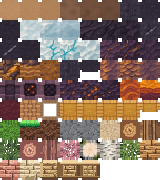
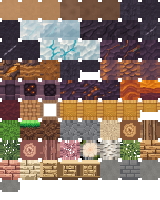
Orvalis em voxel: pedra de obra, lisa, tijolo e laje (v0.175.0, E2a, ADR 0108)
Terceira entrega do pacote Texturas16px: Pedra Lisa, Tijolo de Pedra e Laje de
Pedra (blocos 107-110, itens 57-59). A laje entra na família das lajes e duas
viram a Pedra Lisa; três receitas na mesa; ícones isométricos (laje em meia
altura); vitrine com três fileiras. Degrau e mureta ficam em E2b e E2c.

Claude-Session: https://claude.ai/code/session_01KGdgoniDf5SwPMM31qtkm2

diff --git a/src/titan/voxel.ts b/src/titan/voxel.ts
@@ -22,9 +22,9 @@ export const REGION_MIN = REGION_LEGACY.min;
 export const REGION_MAX = REGION_LEGACY.max;
 
 /** Ids de bloco (um byte; 0 = ar). */
-export const T = { AIR: 0, SAND: 1, DAMP_SAND: 2, DARK_ROCK: 3, FROST: 4, LAKE: 5, BEDROCK: 6, LANTERN: 7, VEIN_ROCK: 8, VEIN_FROST: 9, WORKBENCH: 10, EMBER: 11, SLAB: 12, WORKBENCH_90: 13, WORKBENCH_180: 14, WORKBENCH_270: 15, SLAB_TOP: 16, SLAB_DOUBLE: 17, MARCO: 18, MARCO_90: 19, MARCO_180: 20, MARCO_270: 21, PAINEL: 22, PAINEL_Z: 23, VEIN_COPPER: 24, BRAZIER: 25, BRAZIER_LIT: 26, CARAPACE: 27, EMBER_VEIN: 28, EMBER_BLOCK: 29, MAT: 30, LADDER: 31, LADDER_90: 32, LADDER_180: 33, LADDER_270: 34, CHEST: 35, CHEST_90: 36, CHEST_180: 37, CHEST_270: 38, BED: 39, BED_90: 40, BED_180: 41, BED_270: 42, BED_HEAD: 43, BED_HEAD_90: 44, BED_HEAD_180: 45, BED_HEAD_270: 46, REED_BLOCK: 47, REED_SLAB: 48, REED_SLAB_TOP: 49, REED_STAIR: 50, REED_STAIR_90: 51, REED_STAIR_180: 52, REED_STAIR_270: 53, REED_CHAIR: 54, REED_CHAIR_90: 55, REED_CHAIR_180: 56, REED_CHAIR_270: 57, DOOR: 58, DOOR_LAST: 89, GRASS: 90, DIRT: 91, STONE: 92, BEACH: 93, LOG_OAK: 94, LEAVES_OAK: 95, LOG_CHERRY: 96, LEAVES_CHERRY: 97, LOG_BIRCH: 98, LEAVES_BIRCH: 99, PLANKS_OAK: 100, PLANKS_CHERRY: 101, PLANKS_BIRCH: 102, CARPENTRY: 103, CARPENTRY_90: 104, CARPENTRY_180: 105, CARPENTRY_270: 106 } as const;
+export const T = { AIR: 0, SAND: 1, DAMP_SAND: 2, DARK_ROCK: 3, FROST: 4, LAKE: 5, BEDROCK: 6, LANTERN: 7, VEIN_ROCK: 8, VEIN_FROST: 9, WORKBENCH: 10, EMBER: 11, SLAB: 12, WORKBENCH_90: 13, WORKBENCH_180: 14, WORKBENCH_270: 15, SLAB_TOP: 16, SLAB_DOUBLE: 17, MARCO: 18, MARCO_90: 19, MARCO_180: 20, MARCO_270: 21, PAINEL: 22, PAINEL_Z: 23, VEIN_COPPER: 24, BRAZIER: 25, BRAZIER_LIT: 26, CARAPACE: 27, EMBER_VEIN: 28, EMBER_BLOCK: 29, MAT: 30, LADDER: 31, LADDER_90: 32, LADDER_180: 33, LADDER_270: 34, CHEST: 35, CHEST_90: 36, CHEST_180: 37, CHEST_270: 38, BED: 39, BED_90: 40, BED_180: 41, BED_270: 42, BED_HEAD: 43, BED_HEAD_90: 44, BED_HEAD_180: 45, BED_HEAD_270: 46, REED_BLOCK: 47, REED_SLAB: 48, REED_SLAB_TOP: 49, REED_STAIR: 50, REED_STAIR_90: 51, REED_STAIR_180: 52, REED_STAIR_270: 53, REED_CHAIR: 54, REED_CHAIR_90: 55, REED_CHAIR_180: 56, REED_CHAIR_270: 57, DOOR: 58, DOOR_LAST: 89, GRASS: 90, DIRT: 91, STONE: 92, BEACH: 93, LOG_OAK: 94, LEAVES_OAK: 95, LOG_CHERRY: 96, LEAVES_CHERRY: 97, LOG_BIRCH: 98, LEAVES_BIRCH: 99, PLANKS_OAK: 100, PLANKS_CHERRY: 101, PLANKS_BIRCH: 102, CARPENTRY: 103, CARPENTRY_90: 104, CARPENTRY_180: 105, CARPENTRY_270: 106, STONE_SMOOTH: 107, STONE_BRICK: 108, STONE_SLAB: 109, STONE_SLAB_TOP: 110 } as const;
 /** Maior id de bloco (o carregamento do save descarta ids acima disto). */
-export const T_MAX = T.CARPENTRY_270;
+export const T_MAX = T.STONE_SLAB_TOP;
 export type TitanBlock = (typeof T)[keyof typeof T];
 
 export const BLOCK_NAMES: Record<number, string> = { 1: 'Areia ocre', 2: 'Areia úmida', 3: 'Rocha escura', 4: 'Gelo fosco', 5: 'Lago escuro', 6: 'Rocha-mãe', 7: 'Lanterna da margem', 8: 'Rocha com veio', 9: 'Gelo com veio', 10: 'Mesa de Trabalho', 11: 'Brasa de âmbar', 12: 'Laje de rocha', 13: 'Mesa de Trabalho', 14: 'Mesa de Trabalho', 15: 'Mesa de Trabalho', 16: 'Laje de rocha', 17: 'Laje dupla de rocha', 18: 'Marco de Margem', 19: 'Marco de Margem', 20: 'Marco de Margem', 21: 'Marco de Margem', 22: 'Painel de Junco', 23: 'Painel de Junco', 24: 'Veio de Cobre de Duna', 25: 'Braseiro de Rocha', 26: 'Braseiro de Rocha (aceso)', 27: 'Revestimento de Carapaça', 28: 'Veio de Âmbar', 29: 'Bloco de Âmbar Compactado', 30: 'Esteira de Junco', 31: 'Escada de Junco', 32: 'Escada de Junco', 33: 'Escada de Junco', 34: 'Escada de Junco', 35: 'Baú de Rocha e Junco', 36: 'Baú de Rocha e Junco', 37: 'Baú de Rocha e Junco', 38: 'Baú de Rocha e Junco', 39: 'Cama de Junco', 40: 'Cama de Junco', 41: 'Cama de Junco', 42: 'Cama de Junco', 43: 'Cama de Junco', 44: 'Cama de Junco', 45: 'Cama de Junco', 46: 'Cama de Junco', 47: 'Bloco de Junco', 48: 'Laje de Junco', 49: 'Laje de Junco', 50: 'Degrau de Junco', 51: 'Degrau de Junco', 52: 'Degrau de Junco', 53: 'Degrau de Junco', 54: 'Cadeira de Junco', 55: 'Cadeira de Junco', 56: 'Cadeira de Junco', 57: 'Cadeira de Junco' };
@@ -41,6 +41,8 @@ export const carpentryId = (turn: number): number => T.CARPENTRY + (((turn % 4) 
 export const carpentryTurnFacing = (yaw: number): number => ((Math.round(yaw / (Math.PI / 2)) % 4) + 4) % 4;
 /** Qualquer mesa de fabricação em 3 × 3: a Mesa de Trabalho do Titã (modelo 3D) ou a Mesa de Carpintaria do Orvalis (cubo). Pergunte aqui, nunca `isWorkbench` sozinho, ao decidir se há bancada. */
 export const isCraftingTable = (id: number): boolean => isWorkbench(id) || isCarpentry(id);
+/** Pedra de obra do Orvalis em voxel (ADR 0108): Pedra Lisa, Tijolo de Pedra e a Laje de Pedra (inferior e superior; duas lajes na mesma célula viram a Pedra Lisa). */
+Object.assign(BLOCK_NAMES, { 107: 'Pedra Lisa', 108: 'Tijolo de Pedra', 109: 'Laje de Pedra', 110: 'Laje de Pedra' });
 /** Folhas das árvores do Orvalis (cubo inteiro opaco por enquanto) e toras. */
 export const isLeaves = (id: number): boolean => id === T.LEAVES_OAK || id === T.LEAVES_CHERRY || id === T.LEAVES_BIRCH;
 export const isLog = (id: number): boolean => id === T.LOG_OAK || id === T.LOG_CHERRY || id === T.LOG_BIRCH;
@@ -56,10 +58,10 @@ export const isOccupied = isTarget;
 /** Altura do bloco dentro da célula (0–1): 1 = cubo inteiro, 0,5 = laje (ADR 0046), 0 = não sólido. A física e a mira usam esta altura. */
 export const blockHeight = (id: number): number => blockSpan(id)[1];
 /** Laje (ADR 0046, 0056): inferior (`SLAB`, metade de baixo da célula) ou superior (`SLAB_TOP`, metade de cima); as duas juntas viram `SLAB_DOUBLE` (cubo inteiro). */
-export const isSlab = (id: number): boolean => id === T.SLAB || id === T.SLAB_TOP || id === T.REED_SLAB || id === T.REED_SLAB_TOP; // a de rocha e a de junco (ADR 0100)
+export const isSlab = (id: number): boolean => id === T.SLAB || id === T.SLAB_TOP || id === T.REED_SLAB || id === T.REED_SLAB_TOP || id === T.STONE_SLAB || id === T.STONE_SLAB_TOP; // a de rocha, a de junco (ADR 0100) e a de pedra (ADR 0108)
 /** Laje inferior (metade de baixo da célula)? A superior é o par dela: `slabPartner`. */
-export const isSlabBottom = (id: number): boolean => id === T.SLAB || id === T.REED_SLAB;
-export const slabPartner = (id: number): number => (id === T.SLAB ? T.SLAB_TOP : id === T.SLAB_TOP ? T.SLAB : id === T.REED_SLAB ? T.REED_SLAB_TOP : T.REED_SLAB);
+export const isSlabBottom = (id: number): boolean => id === T.SLAB || id === T.REED_SLAB || id === T.STONE_SLAB;
+export const slabPartner = (id: number): number => (id === T.SLAB ? T.SLAB_TOP : id === T.SLAB_TOP ? T.SLAB : id === T.REED_SLAB ? T.REED_SLAB_TOP : id === T.REED_SLAB_TOP ? T.REED_SLAB : id === T.STONE_SLAB ? T.STONE_SLAB_TOP : T.STONE_SLAB);
 /** Faixa de altura que o bloco ocupa dentro da célula, `[baixo, topo]` em 0–1 (a laje superior ocupa [0,5, 1]; não sólido = [0, 0]). A física e a mira leem esta faixa. */
 export function blockSpan(id: number): readonly [number, number] {
   if (isStair(id) || isChair(id) || isDoor(id)) return [0, 1]; // a caixa envolvente (a forma exata vem de `blockBoxes`)
@@ -273,6 +275,10 @@ BLOCK_TILES[T.LEAVES_BIRCH] = ot('folhas-betula');
 BLOCK_TILES[T.PLANKS_OAK] = ot('tabua-carvalho');
 BLOCK_TILES[T.PLANKS_CHERRY] = ot('tabua-cerejeira');
 BLOCK_TILES[T.PLANKS_BIRCH] = ot('tabua-betula');
+BLOCK_TILES[T.STONE_SMOOTH] = ot('pedra-lisa');
+BLOCK_TILES[T.STONE_BRICK] = ot('tijolo-pedra');
+BLOCK_TILES[T.STONE_SLAB] = ot('laje-topo', 'laje-face', 'laje-topo'); // a lateral tem 16 × 8 e usa a metade de cima do tile
+BLOCK_TILES[T.STONE_SLAB_TOP] = BLOCK_TILES[T.STONE_SLAB];
 for (let t = 0; t < 4; t++) BLOCK_TILES[T.CARPENTRY + t] = [tileIndex('orvalis/mesa-topo'), tileIndex('orvalis/mesa-lateral'), tileIndex('orvalis/tabua-carvalho')]; // a base é de tábuas; a frente tem tile próprio (`tileForFace`)
 // Família do Junco (ADR 0100): o bloco usa a trama nas seis faces; a laje, o topo de 32 × 32 e a lateral de 32 × 16 (metade de cima do tile)
 BLOCK_TILES[T.REED_BLOCK] = faces3('21-bloco-de-junco');

diff --git a/src/titan/orvalis/pedraObra.test.ts b/src/titan/orvalis/pedraObra.test.ts
@@ -1,0 +1,77 @@
+import { describe, expect, it } from 'vitest';
+import { breakOrCollect, placeFromSlot } from '../actions';
+import { breakTotalMs } from '../breaking';
+import { sweep } from '../dropTestUtil';
+import { BAG, HOTBAR } from '../inventory';
+import { blockOfItem, isItem, Item, ITEM_NAMES, itemOfBlock } from '../items';
+import { craft, recipeById } from '../recipes';
+import { MemoryTitanStorage } from '../save';
+import { openSession } from '../session';
+import { resolveSlabPlacement } from '../slabs';
+import { surfaceOf } from '../sounds';
+import { blockSpan, isFull, isSlab, isSlabBottom, isSolid, slabPartner, T, tileFor } from '../voxel';
+import { ORVALIS_GENERATOR_VERSION, OrvalisGenerator, orvalisGeneratorFor } from './generator';
+
+/** Pedra de obra do Orvalis em voxel (ADR 0108): Pedra Lisa, Tijolo de Pedra e Laje de Pedra (que funde na Pedra Lisa). */
+const open = () => openSession(new MemoryTitanStorage(), 42, () => 1, orvalisGeneratorFor, ORVALIS_GENERATOR_VERSION, (s, v) => new OrvalisGenerator(s, v));
+const slotOf = (s: Awaited<ReturnType<typeof open>>, item: number): number => [...Array(HOTBAR + BAG).keys()].find((i) => s.inventory.get(i)?.item === item) ?? -1;
+
+describe('pedra de obra (ADR 0108)', () => {
+  it('receitas: 1 Pedra → 1 Pedra Lisa, 4 Pedra → 4 Tijolos, 3 Pedra Lisa → 6 Lajes; todas pedem a mesa', async () => {
+    const s = await open();
+    s.inventory.add(Item.STONE, 6);
+    expect(craft(s.inventory, recipeById('pedra-lisa')!, null)).toEqual({ ok: false, reason: 'station' }); // na mão não
+    expect(craft(s.inventory, recipeById('pedra-lisa')!, 'workbench').ok).toBe(true);
+    expect(s.inventory.total(Item.STONE)).toBe(5); expect(s.inventory.total(Item.PEDRA_LISA)).toBe(1);
+    expect(craft(s.inventory, recipeById('tijolo-pedra')!, 'workbench').ok).toBe(true);
+    expect(s.inventory.total(Item.TIJOLO_PEDRA)).toBe(4); expect(s.inventory.total(Item.STONE)).toBe(1);
+    s.inventory.add(Item.PEDRA_LISA, 2);
+    expect(craft(s.inventory, recipeById('laje-pedra')!, 'workbench').ok).toBe(true);
+    expect(s.inventory.total(Item.LAJE_PEDRA)).toBe(6); expect(s.inventory.total(Item.PEDRA_LISA)).toBe(0);
+    for (const id of ['pedra-lisa', 'tijolo-pedra', 'laje-pedra']) expect(recipeById(id)!.world).toBe('orvalis');
+  });
+
+  it('itens ↔ blocos: lisa e tijolo são cubos; a laje (inferior e superior) é meia altura e devolve a mesma laje', () => {
+    expect(blockOfItem(Item.PEDRA_LISA)).toBe(T.STONE_SMOOTH); expect(itemOfBlock(T.STONE_SMOOTH)).toBe(Item.PEDRA_LISA);
+    expect(blockOfItem(Item.TIJOLO_PEDRA)).toBe(T.STONE_BRICK); expect(itemOfBlock(T.STONE_BRICK)).toBe(Item.TIJOLO_PEDRA);
+    expect(blockOfItem(Item.LAJE_PEDRA)).toBe(T.STONE_SLAB); expect(itemOfBlock(T.STONE_SLAB)).toBe(Item.LAJE_PEDRA); expect(itemOfBlock(T.STONE_SLAB_TOP)).toBe(Item.LAJE_PEDRA);
+    for (const [i, n] of [[Item.PEDRA_LISA, 'Pedra Lisa'], [Item.TIJOLO_PEDRA, 'Tijolo de Pedra'], [Item.LAJE_PEDRA, 'Laje de Pedra']] as const) { expect(isItem(i)).toBe(true); expect(ITEM_NAMES[i]).toBe(n); }
+    expect(isItem(60)).toBe(false);
+    expect(isFull(T.STONE_SMOOTH) && isFull(T.STONE_BRICK)).toBe(true);
+    expect(isSlab(T.STONE_SLAB) && isSlab(T.STONE_SLAB_TOP) && !isFull(T.STONE_SLAB)).toBe(true);
+    expect(blockSpan(T.STONE_SLAB)).toEqual([0, 0.5]); expect(blockSpan(T.STONE_SLAB_TOP)).toEqual([0.5, 1]);
+    expect(isSlabBottom(T.STONE_SLAB)).toBe(true); expect(slabPartner(T.STONE_SLAB)).toBe(T.STONE_SLAB_TOP); expect(slabPartner(T.STONE_SLAB_TOP)).toBe(T.STONE_SLAB);
+    expect(slabPartner(T.REED_SLAB_TOP)).toBe(T.REED_SLAB); // as outras famílias seguem iguais
+    expect(isSolid(T.STONE_SLAB)).toBe(true);
+  });
+
+  it('a laje de pedra só funde com a laje de pedra: duas viram a Pedra Lisa; com a de rocha ou de junco não', () => {
+    expect(resolveSlabPlacement(T.STONE_SLAB, 1, undefined, T.STONE_SLAB)).toEqual({ merge: true, block: T.STONE_SMOOTH });
+    expect(resolveSlabPlacement(T.STONE_SLAB_TOP, -1, undefined, T.STONE_SLAB)).toEqual({ merge: true, block: T.STONE_SMOOTH });
+    expect(resolveSlabPlacement(T.SLAB, 1, undefined, T.STONE_SLAB).merge).toBe(false); // laje de rocha embaixo
+    expect(resolveSlabPlacement(T.REED_SLAB, 1, undefined, T.STONE_SLAB).merge).toBe(false);
+    expect(resolveSlabPlacement(T.STONE_SLAB, 1, undefined, T.SLAB).merge).toBe(false); // e o inverso
+    expect(resolveSlabPlacement(T.STONE, -1, undefined, T.STONE_SLAB)).toEqual({ merge: false, block: T.STONE_SLAB_TOP }); // face de baixo de um bloco: superior
+  });
+
+  it('no jogo: a laje vai ao chão em meia altura, a segunda por cima funde na Pedra Lisa (gastando 1), e quebrar devolve a laje ou a lisa', async () => {
+    const s = await open(), a = s.volume.gen.arrival, cx = Math.floor(a.x) + 2, cz = Math.floor(a.z);
+    s.inventory.add(Item.LAJE_PEDRA, 3);
+    expect(placeFromSlot(s, { x: cx, y: a.y - 1, z: cz, nx: 0, ny: 1, nz: 0 }, slotOf(s, Item.LAJE_PEDRA)).ok).toBe(true);
+    expect(s.volume.get(cx, a.y, cz)).toBe(T.STONE_SLAB);
+    expect(placeFromSlot(s, { x: cx, y: a.y, z: cz, nx: 0, ny: 1, nz: 0, hy: 0.5 }, slotOf(s, Item.LAJE_PEDRA)).ok).toBe(true); // no topo da laje inferior: funde
+    expect(s.volume.get(cx, a.y, cz)).toBe(T.STONE_SMOOTH); expect(s.inventory.total(Item.LAJE_PEDRA)).toBe(1);
+    expect(breakOrCollect(s, { x: cx, y: a.y, z: cz, nx: 0, ny: 1, nz: 0 }).ok).toBe(true);
+    sweep(s); expect(s.inventory.total(Item.PEDRA_LISA)).toBe(1); // a Pedra Lisa devolve 1 bloco
+  });
+
+  it('tempos, som e arte: cubos 1,6 s, laje 1 s; tile próprio de cada um; a lateral da laje é a de meia altura', () => {
+    for (const b of [T.STONE_SMOOTH, T.STONE_BRICK]) expect(breakTotalMs('block', b)).toBe(1600);
+    for (const b of [T.STONE_SLAB, T.STONE_SLAB_TOP]) expect(breakTotalMs('block', b)).toBe(1000);
+    expect(breakTotalMs('block', T.STONE_SMOOTH, 'rock')).toBe(960); // com picareta de rocha
+    for (const b of [T.STONE_SMOOTH, T.STONE_BRICK, T.STONE_SLAB, T.STONE_SLAB_TOP]) expect(surfaceOf(b)).toBe('rock');
+    expect(new Set([tileFor(T.STONE, 'top'), tileFor(T.STONE_SMOOTH, 'top'), tileFor(T.STONE_BRICK, 'top'), tileFor(T.STONE_SLAB, 'top')]).size).toBe(4);
+    expect(tileFor(T.STONE_SLAB, 'side')).not.toBe(tileFor(T.STONE_SLAB, 'top'));
+    expect(tileFor(T.STONE_SLAB_TOP, 'side')).toBe(tileFor(T.STONE_SLAB, 'side'));
+  });
+});

diff --git a/src/titan/items.ts b/src/titan/items.ts
@@ -4,7 +4,7 @@ import { BLOCK_NAMES, isCarpentry, isMarco, isPanel, isWorkbench, T } from './vo
  * Itens do Titã (ADR 0040). O id é o índice do sprite no atlas da hotbar + 1 (`render/art/titan.ts`): a ordem do atlas não depende da ordem dos espaços da barra.
  * Os quatro primeiros coincidem com os ids de bloco `T.SAND … T.FROST`.
  */
-export const Item = { SAND: 1, DAMP_SAND: 2, DARK_ROCK: 3, FROST: 4, ROCK_SHARD: 5, FROST_SHARD: 6, CAPSULE: 7, LANTERN: 8, WORKBENCH: 9, ICE_LENS: 10, EMBER: 11, GLASS_REED: 12, SLAB: 13, MARCO: 14, PAINEL: 15, NOZ: 16, COPPER_SHARD: 17, COPPER_INGOT: 18, DRY_REED: 19, STONE_PICK: 20, BRAZIER: 21, STONE_DAGGER: 22, COPPER_PICK: 23, COPPER_DAGGER: 24, PLATE: 25, CARAPACE: 26, RAW_MEAT: 27, COOKED_MEAT: 28, EMBER_BLOCK: 29, NOZ_TORRADA: 30, ESTEIRA: 31, ESCADA: 32, BAU: 33, CAMA: 34, BALDE: 35, BALDE_CHEIO: 36, BLOCO_JUNCO: 37, LAJE_JUNCO: 38, DEGRAU_JUNCO: 39, CADEIRA_JUNCO: 40, PORTA_JUNCO: 41, GRASS: 42, DIRT: 43, STONE: 44, BEACH: 45, LOG_OAK: 46, LEAVES_OAK: 47, LOG_CHERRY: 48, LEAVES_CHERRY: 49, LOG_BIRCH: 50, LEAVES_BIRCH: 51, TABUA_CARVALHO: 52, TABUA_CEREJEIRA: 53, TABUA_BETULA: 54, HASTE: 55, MESA_CARPINTARIA: 56 } as const;
+export const Item = { SAND: 1, DAMP_SAND: 2, DARK_ROCK: 3, FROST: 4, ROCK_SHARD: 5, FROST_SHARD: 6, CAPSULE: 7, LANTERN: 8, WORKBENCH: 9, ICE_LENS: 10, EMBER: 11, GLASS_REED: 12, SLAB: 13, MARCO: 14, PAINEL: 15, NOZ: 16, COPPER_SHARD: 17, COPPER_INGOT: 18, DRY_REED: 19, STONE_PICK: 20, BRAZIER: 21, STONE_DAGGER: 22, COPPER_PICK: 23, COPPER_DAGGER: 24, PLATE: 25, CARAPACE: 26, RAW_MEAT: 27, COOKED_MEAT: 28, EMBER_BLOCK: 29, NOZ_TORRADA: 30, ESTEIRA: 31, ESCADA: 32, BAU: 33, CAMA: 34, BALDE: 35, BALDE_CHEIO: 36, BLOCO_JUNCO: 37, LAJE_JUNCO: 38, DEGRAU_JUNCO: 39, CADEIRA_JUNCO: 40, PORTA_JUNCO: 41, GRASS: 42, DIRT: 43, STONE: 44, BEACH: 45, LOG_OAK: 46, LEAVES_OAK: 47, LOG_CHERRY: 48, LEAVES_CHERRY: 49, LOG_BIRCH: 50, LEAVES_BIRCH: 51, TABUA_CARVALHO: 52, TABUA_CEREJEIRA: 53, TABUA_BETULA: 54, HASTE: 55, MESA_CARPINTARIA: 56, PEDRA_LISA: 57, TIJOLO_PEDRA: 58, LAJE_PEDRA: 59 } as const;
 export type ItemId = (typeof Item)[keyof typeof Item];
 
 export const ITEM_NAMES: Record<number, string> = {
@@ -12,13 +12,13 @@ export const ITEM_NAMES: Record<number, string> = {
   5: 'Fragmento de rocha', 6: 'Fragmento de gelo', 7: 'Cápsula de luz', 8: 'Lanterna da margem', 9: 'Mesa de Trabalho', 10: 'Lente de Gelo', 11: 'Brasa de âmbar', 12: 'Junco de vidro', 13: 'Laje de rocha', 14: 'Marco de Margem', 15: 'Painel de Junco', 16: 'Noz de Duna', 17: 'Fragmento de Cobre de Duna', 18: 'Lingote de Cobre de Duna', 19: 'Haste Seca de Junco', 20: 'Picareta de Rocha', 21: 'Braseiro de Rocha', 22: 'Adaga de Rocha', 23: 'Picareta de Cobre', 24: 'Adaga de Cobre', 25: 'Placa de Carapaça', 26: 'Revestimento de Carapaça', 27: 'Carne Crua de Farejador', 28: 'Carne Assada de Farejador', 29: 'Bloco de Âmbar Compactado', 30: 'Noz Torrada', 31: 'Esteira de Junco', 32: 'Escada de Junco', 33: 'Baú de Rocha e Junco', 34: 'Cama de Junco', 35: 'Balde de Cobre', 36: 'Balde de Cobre (cheio)', 37: 'Bloco de Junco', 38: 'Laje de Junco', 39: 'Degrau de Junco', 40: 'Cadeira de Junco', 41: 'Porta de Junco',
 };
 /** Itens-bloco do Orvalis em voxel (ADR 0105, ids 42–51): o item é o próprio bloco (mesma ordem de `T.GRASS … T.LEAVES_BIRCH`). */
-export const ORVALIS_ITEM_BLOCKS: Readonly<Record<number, number>> = { [Item.GRASS]: T.GRASS, [Item.DIRT]: T.DIRT, [Item.STONE]: T.STONE, [Item.BEACH]: T.BEACH, [Item.LOG_OAK]: T.LOG_OAK, [Item.LEAVES_OAK]: T.LEAVES_OAK, [Item.LOG_CHERRY]: T.LOG_CHERRY, [Item.LEAVES_CHERRY]: T.LEAVES_CHERRY, [Item.LOG_BIRCH]: T.LOG_BIRCH, [Item.LEAVES_BIRCH]: T.LEAVES_BIRCH, [Item.TABUA_CARVALHO]: T.PLANKS_OAK, [Item.TABUA_CEREJEIRA]: T.PLANKS_CHERRY, [Item.TABUA_BETULA]: T.PLANKS_BIRCH, [Item.MESA_CARPINTARIA]: T.CARPENTRY };
+export const ORVALIS_ITEM_BLOCKS: Readonly<Record<number, number>> = { [Item.GRASS]: T.GRASS, [Item.DIRT]: T.DIRT, [Item.STONE]: T.STONE, [Item.BEACH]: T.BEACH, [Item.LOG_OAK]: T.LOG_OAK, [Item.LEAVES_OAK]: T.LEAVES_OAK, [Item.LOG_CHERRY]: T.LOG_CHERRY, [Item.LEAVES_CHERRY]: T.LEAVES_CHERRY, [Item.LOG_BIRCH]: T.LOG_BIRCH, [Item.LEAVES_BIRCH]: T.LEAVES_BIRCH, [Item.TABUA_CARVALHO]: T.PLANKS_OAK, [Item.TABUA_CEREJEIRA]: T.PLANKS_CHERRY, [Item.TABUA_BETULA]: T.PLANKS_BIRCH, [Item.MESA_CARPINTARIA]: T.CARPENTRY, [Item.PEDRA_LISA]: T.STONE_SMOOTH, [Item.TIJOLO_PEDRA]: T.STONE_BRICK, [Item.LAJE_PEDRA]: T.STONE_SLAB };
 const ORVALIS_BLOCK_ITEMS: Readonly<Record<number, number>> = Object.fromEntries(Object.entries(ORVALIS_ITEM_BLOCKS).map(([item, block]) => [block, Number(item)]));
 for (const [item, block] of Object.entries(ORVALIS_ITEM_BLOCKS)) ITEM_NAMES[Number(item)] = BLOCK_NAMES[block];
 ITEM_NAMES[Item.HASTE] = 'Haste de Madeira'; // item sem bloco (ADR 0107)
 /** Pilhas: blocos, fragmentos, lente e brasa até 64; cápsula (legada, id reservado), lanterna e mesa até 1 (a mesa 1 por espaço: é uma peça grande). */
 export const maxStack = (item: number): number => (item === Item.CAPSULE || item === Item.LANTERN || item === Item.WORKBENCH || isBucket(item) || isTool(item) ? 1 : 64);
-export const isItem = (n: unknown): n is ItemId => Number.isInteger(n) && (n as number) >= 1 && (n as number) <= 56;
+export const isItem = (n: unknown): n is ItemId => Number.isInteger(n) && (n as number) >= 1 && (n as number) <= 59;
 /** Balde de Cobre (ADR 0091): vazio recolhe uma célula do lago, cheio a despeja. Pergunte aqui, nunca compare ids soltos. */
 export const isBucket = (item: number | undefined | null): boolean => item === Item.BALDE || item === Item.BALDE_CHEIO;
 
@@ -49,6 +49,7 @@ export function blockOfItem(item: number): number | null {
 export function itemOfBlock(block: number): ItemId | null {
   if (block >= T.SAND && block <= T.FROST) return block as ItemId;
   if (ORVALIS_BLOCK_ITEMS[block]) return ORVALIS_BLOCK_ITEMS[block] as ItemId; // Orvalis em voxel (ADR 0105)
+  if (block === T.STONE_SLAB_TOP) return Item.LAJE_PEDRA; // a superior devolve a mesma laje (a fusão é a Pedra Lisa: 1 bloco = 2 lajes, ADR 0108)
   if (isCarpentry(block)) return Item.MESA_CARPINTARIA; // as 4 orientações da mesa devolvem 1 mesa (ADR 0107)
   if (block === T.VEIN_ROCK) return Item.DARK_ROCK; // o veio devolve o bloco inteiro (a lasca vem à parte, em `actions.ts`)
   if (block === T.VEIN_FROST) return Item.FROST;

diff --git a/src/titan/titan.css b/src/titan/titan.css
@@ -28,7 +28,7 @@ body.titan #world { position: fixed; inset: 0; width: 100%; height: 100%; displa
 .titan-hurt { position: absolute; inset: 0; opacity: 0; pointer-events: none; background: radial-gradient(ellipse at center, rgba(150, 24, 24, 0) 38%, rgba(150, 24, 24, 0.6) 100%); }
 .titan-hurt.on { animation: titan-hurt 0.4s ease-out; }
 @keyframes titan-hurt { from { opacity: 1; } to { opacity: 0; } }
-.titan-icon { display: block; width: var(--ic); height: var(--ic); background-size: calc(var(--ic) * 4) calc(var(--ic) * 14); image-rendering: pixelated; pointer-events: none; }
+.titan-icon { display: block; width: var(--ic); height: var(--ic); background-size: calc(var(--ic) * 4) calc(var(--ic) * 15); image-rendering: pixelated; pointer-events: none; }
 .titan-slot .key { position: absolute; top: 2px; left: 3px; font: 700 10px ui-monospace, monospace; color: #f2cc93; text-shadow: 1px 1px #171410; pointer-events: none; }
 .titan-slot .count { position: absolute; right: 3px; bottom: 1px; font: 700 11px ui-monospace, monospace; font-style: normal; color: #fff3df; text-shadow: 1px 1px #171410; pointer-events: none; }
 .titan-craft { display: grid; gap: 6px; max-width: 200px; }
@@ -77,7 +77,7 @@ body.titan-aim-finger .titan-cross { display: none; } /* mira no dedo: sem cruze
 /* Bolsa e livro de receitas (ADR 0047): hotbar de 9 com ☰ fora dos espaços; grupos | receitas | grade de fabricação e item final (a bolsa é o último grupo) */
 .titan-hotbar { width: var(--hbw); box-sizing: border-box; justify-content: space-between; }
 .titan-hbmenu { position: absolute; left: calc(50% + var(--hbw) / 2 + 8px); bottom: var(--hbb); width: calc(var(--slot) + 14px); height: calc(var(--slot) + 14px); padding: 0; font-size: 22px; line-height: 1; pointer-events: auto; }
-.titan-icon.md { display: block; flex: none; width: var(--icm); height: var(--icm); background-size: calc(var(--icm) * 4) calc(var(--icm) * 14); }
+.titan-icon.md { display: block; flex: none; width: var(--icm); height: var(--icm); background-size: calc(var(--icm) * 4) calc(var(--icm) * 15); }
 .titan-panel { position: absolute; z-index: 5; left: 50%; transform: translateX(-50%); width: min(calc(100vw - 16px), 724px); box-sizing: border-box; bottom: calc(var(--hbb) + var(--slot) + 14px + 5px);
   height: min(calc(100vh - var(--hbb) - var(--slot) - 14px - 5px - max(6px, env(safe-area-inset-top))), 420px);
   display: flex; flex-direction: column; padding: 5px; overflow: hidden; background: #171c20f7; border: 1px solid #765943; border-radius: 6px; pointer-events: auto; touch-action: none; }
@@ -170,7 +170,7 @@ body.titan input { user-select: text; -webkit-user-select: text; }
 .titan-furnace .titan-fcol { display: inline-flex; flex-direction: column; align-items: center; gap: 3px; min-width: 0; }
 .titan-furnace .flabel { color: #cdb89a; font-size: 11px; white-space: nowrap; }
 .titan-furnace .titan-fslot { width: var(--fsz); height: var(--fsz); border-width: 2px; }
-.titan-furnace .titan-fslot .titan-icon { width: var(--icm); height: var(--icm); background-size: calc(var(--icm) * 4) calc(var(--icm) * 14); }
+.titan-furnace .titan-fslot .titan-icon { width: var(--icm); height: var(--icm); background-size: calc(var(--icm) * 4) calc(var(--icm) * 15); }
 .titan-furnace .titan-fslot .count { font-size: 12px; right: 4px; bottom: 2px; }
 .titan-furnace .titan-fslot.out { --icm: 64px; width: var(--fbig); height: var(--fbig); } /* o resultado em escala 2× (inteira) */
 .titan-furnace .titan-fslot.out .count { font-size: 14px; right: 5px; bottom: 3px; }
@@ -187,7 +187,7 @@ body.titan input { user-select: text; -webkit-user-select: text; }
 /* Bolsa e livro de receitas (ADR 0047): hotbar de 9 com ☰ fora dos espaços; grupos | receitas | grade de fabricação e item final (a bolsa é o último grupo) */
 .titan-hotbar { width: var(--hbw); box-sizing: border-box; justify-content: space-between; }
 .titan-hbmenu { position: absolute; left: calc(50% + var(--hbw) / 2 + 8px); bottom: var(--hbb); width: calc(var(--slot) + 14px); height: calc(var(--slot) + 14px); padding: 0; font-size: 22px; line-height: 1; pointer-events: auto; }
-.titan-icon.md { display: block; flex: none; width: var(--icm); height: var(--icm); background-size: calc(var(--icm) * 4) calc(var(--icm) * 14); }
+.titan-icon.md { display: block; flex: none; width: var(--icm); height: var(--icm); background-size: calc(var(--icm) * 4) calc(var(--icm) * 15); }
 .titan-panel { position: absolute; z-index: 5; left: 50%; transform: translateX(-50%); width: min(calc(100vw - 16px), 724px); box-sizing: border-box; bottom: calc(var(--hbb) + var(--slot) + 14px + 5px);
   height: min(calc(100vh - var(--hbb) - var(--slot) - 14px - 5px - max(6px, env(safe-area-inset-top))), 420px);
   display: flex; flex-direction: column; padding: 5px; overflow: hidden; background: #171c20f7; border: 1px solid #765943; border-radius: 6px; pointer-events: auto; touch-action: none; }

diff --git a/src/titan/breaking.ts b/src/titan/breaking.ts
@@ -28,13 +28,14 @@ export function breakTotalMs(kind: TargetKind, block?: number, pick: Tier | bool
 
 /** Com picareta, os blocos de rocha cedem nesta fração do tempo, por nível (provisório, ADR 0063 e 0065). */
 export const PICK_FACTOR: Readonly<Record<Tier, number>> = { rock: 0.6, copper: 0.4 };
-const ROCK_CLASS: ReadonlySet<number> = new Set([T.DARK_ROCK, T.VEIN_ROCK, T.SLAB, T.SLAB_TOP, T.SLAB_DOUBLE, T.BRAZIER, T.BRAZIER_LIT, T.CARAPACE, T.EMBER_BLOCK, T.CHEST, T.CHEST_90, T.CHEST_180, T.CHEST_270, T.STONE]);
+const ROCK_CLASS: ReadonlySet<number> = new Set([T.DARK_ROCK, T.VEIN_ROCK, T.SLAB, T.SLAB_TOP, T.SLAB_DOUBLE, T.BRAZIER, T.BRAZIER_LIT, T.CARAPACE, T.EMBER_BLOCK, T.CHEST, T.CHEST_90, T.CHEST_180, T.CHEST_270, T.STONE, T.STONE_SMOOTH, T.STONE_BRICK, T.STONE_SLAB, T.STONE_SLAB_TOP]);
 
 function baseBreakMs(block?: number): number | null {
   if (block !== undefined && block >= T.DOOR && block <= T.DOOR_LAST) return BREAK_MS.slab; // a porta cede como os móveis de junco (ADR 0102)
   switch (block) {
     case T.GRASS: case T.DIRT: case T.BEACH: return BREAK_MS.sand; // Orvalis em voxel (ADR 0105): terra, grama e areia da praia cedem como a areia
-    case T.STONE: return BREAK_MS.rock;
+    case T.STONE: case T.STONE_SMOOTH: case T.STONE_BRICK: return BREAK_MS.rock; // pedra de obra (ADR 0108)
+    case T.STONE_SLAB: case T.STONE_SLAB_TOP: return BREAK_MS.slab; // meio bloco: mais rápida que o cubo
     case T.LOG_OAK: case T.LOG_CHERRY: case T.LOG_BIRCH: case T.PLANKS_OAK: case T.PLANKS_CHERRY: case T.PLANKS_BIRCH: case T.CARPENTRY: case T.CARPENTRY_90: case T.CARPENTRY_180: case T.CARPENTRY_270: return BREAK_MS.wood; // tábuas e mesa (ADR 0107)
     case T.LEAVES_OAK: case T.LEAVES_CHERRY: case T.LEAVES_BIRCH: return BREAK_MS.leaves;
     case T.SAND: case T.DAMP_SAND: case T.REED_BLOCK: return BREAK_MS.sand; // o bloco de junco cede como a areia (ADR 0100)

diff --git a/src/titan/sounds.ts b/src/titan/sounds.ts
@@ -11,7 +11,7 @@ export function surfaceOf(block: number | undefined): SurfaceMaterial | null {
   if (block !== undefined && block >= T.DOOR && block <= T.DOOR_LAST) return 'sand'; // a porta de junco soa como o resto do junco (ADR 0102)
   switch (block) {
     case T.GRASS: case T.DIRT: case T.BEACH: case T.LEAVES_OAK: case T.LEAVES_CHERRY: case T.LEAVES_BIRCH: return 'sand'; // Orvalis em voxel (ADR 0105): sem timbre próprio ainda; terra, areia e folhas soam como areia
-    case T.STONE: case T.LOG_OAK: case T.LOG_CHERRY: case T.LOG_BIRCH: case T.PLANKS_OAK: case T.PLANKS_CHERRY: case T.PLANKS_BIRCH: case T.CARPENTRY: case T.CARPENTRY_90: case T.CARPENTRY_180: case T.CARPENTRY_270: return 'rock'; // a tora ainda soa como rocha (falta o som de madeira)
+    case T.STONE_SMOOTH: case T.STONE_BRICK: case T.STONE_SLAB: case T.STONE_SLAB_TOP: case T.STONE: case T.LOG_OAK: case T.LOG_CHERRY: case T.LOG_BIRCH: case T.PLANKS_OAK: case T.PLANKS_CHERRY: case T.PLANKS_BIRCH: case T.CARPENTRY: case T.CARPENTRY_90: case T.CARPENTRY_180: case T.CARPENTRY_270: return 'rock'; // a tora ainda soa como rocha (falta o som de madeira)
     case T.SAND: case T.DAMP_SAND: case T.REED_BLOCK: case T.REED_SLAB: case T.REED_SLAB_TOP: case T.REED_STAIR: case T.REED_STAIR_90: case T.REED_STAIR_180: case T.REED_STAIR_270: case T.REED_CHAIR: case T.REED_CHAIR_90: case T.REED_CHAIR_180: case T.REED_CHAIR_270: case T.PAINEL: case T.PAINEL_Z: case T.MAT: case T.LADDER: case T.LADDER_90: case T.LADDER_180: case T.LADDER_270: return 'sand';
     case T.CHEST: case T.CHEST_90: case T.CHEST_180: case T.CHEST_270: return 'rock';
     case T.BED: case T.BED_90: case T.BED_180: case T.BED_270: case T.BED_HEAD: case T.BED_HEAD_90: case T.BED_HEAD_180: case T.BED_HEAD_270: return 'sand'; // o painel é um trançado de junco sobre base de basalto: soa abafado

diff --git a/src/titan/texturas.ts b/src/titan/texturas.ts
@@ -10,16 +10,18 @@ import { BLOCK_NAMES, inRegion, REGION_V6, type Region, T, tileFor } from './vox
  */
 
 /** Fileiras da vitrine, da esquerda para a direita: o Orvalis em voxel e o terreno do Titã (cubos inteiros e a laje de rocha). */
-export const ORVALIS_ROW: readonly number[] = [T.GRASS, T.DIRT, T.STONE, T.BEACH, T.LOG_OAK, T.LEAVES_OAK, T.LOG_CHERRY, T.LEAVES_CHERRY, T.LOG_BIRCH, T.LEAVES_BIRCH, T.PLANKS_OAK, T.PLANKS_CHERRY, T.PLANKS_BIRCH, T.CARPENTRY];
+export const ORVALIS_ROW: readonly number[] = [T.GRASS, T.DIRT, T.STONE, T.BEACH, T.LOG_OAK, T.LEAVES_OAK, T.LOG_CHERRY, T.LEAVES_CHERRY, T.LOG_BIRCH, T.LEAVES_BIRCH];
+export const ORVALIS_ROW2: readonly number[] = [T.PLANKS_OAK, T.PLANKS_CHERRY, T.PLANKS_BIRCH, T.CARPENTRY, T.STONE_SMOOTH, T.STONE_BRICK, T.STONE_SLAB]; // madeira e pedra de obra (ADR 0107, 0108)
 export const TITAN_ROW: readonly number[] = [T.SAND, T.DAMP_SAND, T.DARK_ROCK, T.FROST, T.VEIN_ROCK, T.VEIN_FROST, T.VEIN_COPPER, T.EMBER, T.CARAPACE, T.EMBER_VEIN, T.EMBER_BLOCK, T.REED_BLOCK, T.SLAB];
 export const ROWS: ReadonlyArray<{ z0: number; blocks: readonly number[]; label: string }> = [
-  { z0: 0, blocks: ORVALIS_ROW, label: 'Fila 1 (Orvalis)' },
-  { z0: 10, blocks: TITAN_ROW, label: 'Fila 2 (Titã)' },
+  { z0: 0, blocks: ORVALIS_ROW, label: 'Fila 1 (Orvalis: terreno e árvores)' },
+  { z0: 10, blocks: ORVALIS_ROW2, label: 'Fila 2 (Orvalis: madeira e pedra)' },
+  { z0: 20, blocks: TITAN_ROW, label: 'Fila 3 (Titã)' },
 ];
 /** Distância entre blocos no eixo X, início da fileira e piscina de água (x, z, lado). */
 export const STEP = 4;
 export const X0 = 0;
-export const POOL = { x: 0, z: 20, size: 6 } as const;
+export const POOL = { x: 0, z: 30, size: 6 } as const;
 const FLOOR_Y = 63;
 const POOL_FLOOR_Y = 60;
 

diff --git a/src/titan/recipes.ts b/src/titan/recipes.ts
@@ -53,6 +53,10 @@ export const RECIPES: readonly Recipe[] = [
   { id: 'mesa-carpintaria-carvalho', name: 'Mesa de Carpintaria (tábuas de carvalho)', group: 'utilidades', result: { item: Item.MESA_CARPINTARIA, count: 1 }, ingredients: [{ item: Item.TABUA_CARVALHO, count: 4 }], station: 'personal', world: 'orvalis' },
   { id: 'mesa-carpintaria-cerejeira', name: 'Mesa de Carpintaria (tábuas de cerejeira)', group: 'utilidades', result: { item: Item.MESA_CARPINTARIA, count: 1 }, ingredients: [{ item: Item.TABUA_CEREJEIRA, count: 4 }], station: 'personal', world: 'orvalis' },
   { id: 'mesa-carpintaria-betula', name: 'Mesa de Carpintaria (tábuas de bétula)', group: 'utilidades', result: { item: Item.MESA_CARPINTARIA, count: 1 }, ingredients: [{ item: Item.TABUA_BETULA, count: 4 }], station: 'personal', world: 'orvalis' },
+  // Pedra de obra do Orvalis em voxel (ADR 0108), na Mesa de Carpintaria (a fundição em Braseiro ainda não existe no Orvalis: o polimento é provisório)
+  { id: 'pedra-lisa', name: 'Pedra Lisa', group: 'construcao', result: { item: Item.PEDRA_LISA, count: 1 }, ingredients: [{ item: Item.STONE, count: 1 }], station: 'workbench', world: 'orvalis' },
+  { id: 'tijolo-pedra', name: 'Tijolo de Pedra', group: 'construcao', result: { item: Item.TIJOLO_PEDRA, count: 4 }, ingredients: [{ item: Item.STONE, count: 4 }], station: 'workbench', world: 'orvalis' },
+  { id: 'laje-pedra', name: 'Laje de Pedra', group: 'construcao', result: { item: Item.LAJE_PEDRA, count: 6 }, ingredients: [{ item: Item.PEDRA_LISA, count: 3 }], station: 'workbench', world: 'orvalis' },
 ];
 export const recipeById = (id: string): Recipe | undefined => RECIPES.find((r) => r.id === id);
 

diff --git a/src/titan/orvalis/madeira.test.ts b/src/titan/orvalis/madeira.test.ts
@@ -44,7 +44,7 @@ describe('madeira básica (ADR 0107)', () => {
     expect(blockOfItem(Item.MESA_CARPINTARIA)).toBe(T.CARPENTRY);
     for (let t = 0; t < 4; t++) { expect(itemOfBlock(carpentryId(t))).toBe(Item.MESA_CARPINTARIA); expect(isCarpentry(carpentryId(t))).toBe(true); expect(carpentryTurn(carpentryId(t))).toBe(t); }
     expect(blockOfItem(Item.HASTE)).toBeNull(); expect(ITEM_NAMES[Item.HASTE]).toBe('Haste de Madeira');
-    expect(isItem(Item.MESA_CARPINTARIA)).toBe(true); expect(isItem(57)).toBe(false);
+    expect(isItem(Item.MESA_CARPINTARIA)).toBe(true); expect(isItem(60)).toBe(false);
   });
 
   it('a Mesa de Carpintaria é bancada como a Mesa de Trabalho, mas só a do Titã é modelo 3D', () => {
@@ -81,7 +81,7 @@ describe('madeira básica (ADR 0107)', () => {
   });
 
   it('cada mundo mostra só as suas receitas: as 9 de madeira são do Orvalis, o resto (Mesa de Trabalho, lanterna…) é do Titã', () => {
-    const orv = RECIPES.filter((r) => r.world === 'orvalis').map((r) => r.id).sort();
+    const orv = RECIPES.filter((r) => r.world === 'orvalis' && /^(tabuas|hastes|mesa-carpintaria)-/.test(r.id)).map((r) => r.id).sort(); // as de madeira (as de pedra, ADR 0108, também são do Orvalis)
     expect(orv).toEqual(['hastes-betula', 'hastes-carvalho', 'hastes-cerejeira', 'mesa-carpintaria-betula', 'mesa-carpintaria-carvalho', 'mesa-carpintaria-cerejeira', 'tabuas-betula', 'tabuas-carvalho', 'tabuas-cerejeira']);
     expect(recipeById('mesa')!.world).toBeUndefined(); expect(recipeById('lanterna')!.world).toBeUndefined();
   });

diff --git a/src/titan/texturas.test.ts b/src/titan/texturas.test.ts
@@ -7,8 +7,8 @@ describe('cena de texturas (dev)', () => {
     const g = new TexturesGen(1);
     expect(g.blockAt(10, 63, -10)).toBe(T.BEDROCK);
     expect(g.blockAt(10, 64, -10)).toBe(T.AIR);
-    expect(g.blockAt(2, 62, 22)).toBe(T.LAKE);
-    expect(g.blockAt(2, 60, 22)).toBe(T.BEDROCK);
+    expect(g.blockAt(2, 62, 32)).toBe(T.LAKE);
+    expect(g.blockAt(2, 60, 32)).toBe(T.BEDROCK);
     const a = g.arrival;
     for (let y = a.y; y < a.y + 3; y++) expect(isSolid(g.blockAt(Math.floor(a.x), y, Math.floor(a.z)))).toBe(false);
   });
@@ -23,14 +23,13 @@ describe('cena de texturas (dev)', () => {
       expect(BLOCK_NAMES[id]).toBeTruthy();
       expect(tileFor(id, 'top')).toBeGreaterThanOrEqual(0);
     }));
-    const last = ROWS[1].blocks.length - 1;
-    expect(X0 + last * STEP + 2).toBeLessThan(64); // cabe na região
+    for (const r of ROWS) expect(X0 + (r.blocks.length - 1) * STEP + 2).toBeLessThan(64); // cabe na região
   });
 
   it('a legenda lista os blocos das duas fileiras', () => {
     const c = texturesCaption();
-    expect(c).toHaveLength(3);
+    expect(c).toHaveLength(4);
     expect(c[0]).toContain('Terra com Grama');
-    expect(c[1]).toContain('Areia ocre');
+    expect(c[1]).toContain('Tábuas de Carvalho'); expect(c[2]).toContain('Areia ocre');
   });
 });

diff --git a/src/titan/slabs.ts b/src/titan/slabs.ts
@@ -13,6 +13,7 @@ export type SlabPlacement = { merge: boolean; block: number };
 const FAMILY = {
   rock: { bottom: T.SLAB, top: T.SLAB_TOP, whole: T.SLAB_DOUBLE },
   reed: { bottom: T.REED_SLAB, top: T.REED_SLAB_TOP, whole: T.REED_BLOCK },
+  stone: { bottom: T.STONE_SLAB, top: T.STONE_SLAB_TOP, whole: T.STONE_SMOOTH }, // a Laje de Pedra funde na Pedra Lisa (ADR 0108)
 } as const;
 
 /**
@@ -20,7 +21,7 @@ const FAMILY = {
  * (ausente = inferior nas laterais); `held` = a laje na mão (inferior de rocha ou de junco). Só funde com a laje **da mesma família**.
  */
 export function resolveSlabPlacement(targetId: number, ny: number, hy: number | undefined, held: number = T.SLAB): SlabPlacement {
-  const f = held === T.REED_SLAB || held === T.REED_SLAB_TOP ? FAMILY.reed : FAMILY.rock;
+  const f = held === T.REED_SLAB || held === T.REED_SLAB_TOP ? FAMILY.reed : held === T.STONE_SLAB || held === T.STONE_SLAB_TOP ? FAMILY.stone : FAMILY.rock;
   if (targetId === f.bottom && ny === 1) return { merge: true, block: f.whole };
   if (targetId === f.top && ny === -1) return { merge: true, block: f.whole };
   const top = ny === -1 || (ny === 0 && (hy ?? 0) >= 0.5);

diff --git a/src/titan/actions.ts b/src/titan/actions.ts
@@ -545,7 +545,7 @@ export function placeFromSlot(s: TitanSession, hit: Hit, slot: number): ActionRe
   else if (block === T.REED_CHAIR) block = chairId(marcoTurnFacing(s.yaw));
   else if (block === T.CARPENTRY) block = carpentryId(carpentryTurnFacing(s.yaw)); // a frente da Mesa de Carpintaria fica voltada para o jogador (ADR 0107)
   else if (block === T.CHEST) block = chestId(chestTurnFacing(s.yaw)); // a frente do baú (o fecho) fica voltada para o jogador (ADR 0089)
-  if (block === T.SLAB || block === T.REED_SLAB) { // laje (ADR 0056; a de junco, ADR 0100): inferior, superior ou fusão em laje dupla conforme a face e a altura clicadas
+  if (isSlabBottom(block)) { // laje (ADR 0056; a de junco, ADR 0100; a de pedra, ADR 0108): inferior, superior ou fusão em laje dupla conforme a face e a altura clicadas
     const r = resolveSlabPlacement(s.volume.get(hit.x, hit.y, hit.z), hit.ny, hit.hy, block);
     if (r.merge) {
       // funde na célula apontada: a metade que falta não pode invadir o corpo do jogador
